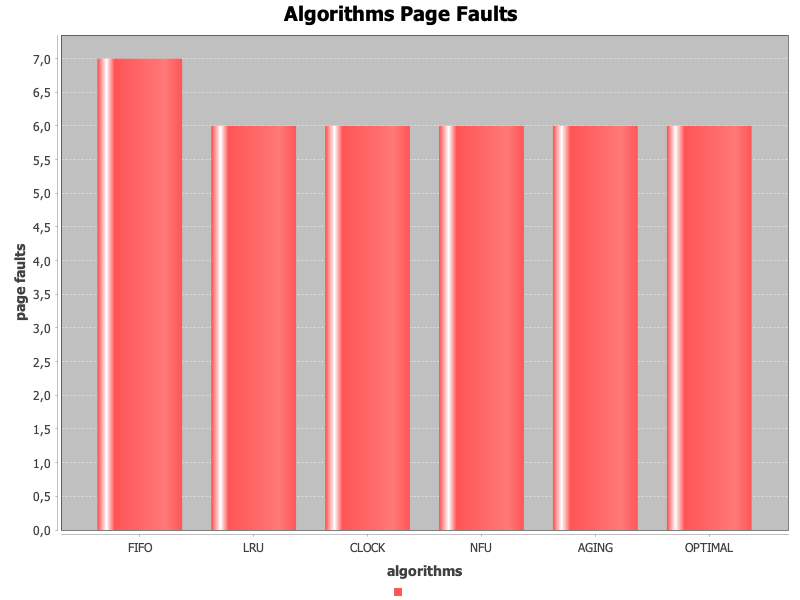
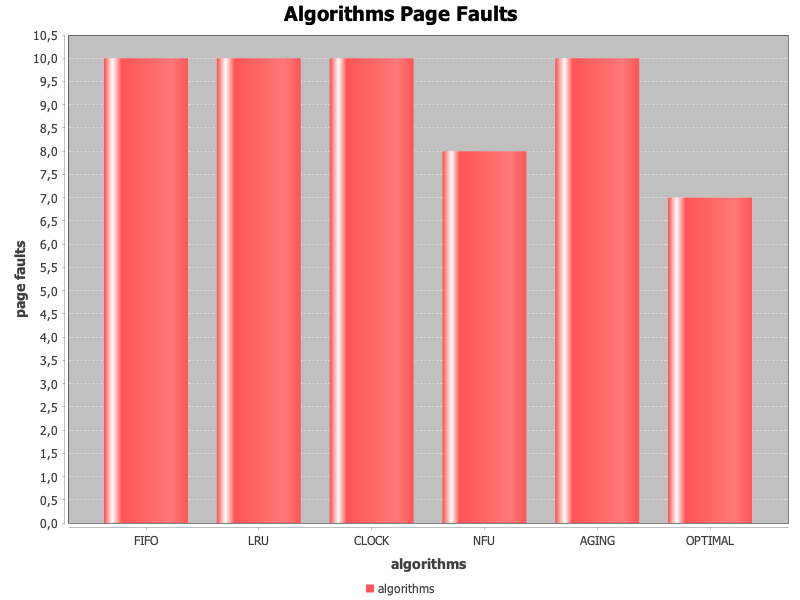
finish project

Changed region(s): [[0.0, 0.06, 1.0, 1.0], [0.8125, 0.21, 0.9688, 0.33]]

diff --git a/src/main/java/org/example/PageReplacement.java b/src/main/java/org/example/PageReplacement.java
@@ -3,7 +3,7 @@ package org.example;
 import java.util.*;
 
 public class PageReplacement {
-    private final int page_size;
+    private final int frame_count;
     private int page_faults;
 
     // FIFO
@@ -24,17 +24,17 @@ public class PageReplacement {
     private final Map<Integer, Integer> agingCounters;
 
 
-    public PageReplacement(int page_size) {
-        this.page_size = page_size;
+    public PageReplacement(int frame_count) {
+        this.frame_count = frame_count;
 
         // FIFO
         this.fifo_frames = new LinkedList<>();
 
         // LRU
-        this.lru_frames = new LinkedHashMap<>(page_size, 0.75f, true);
+        this.lru_frames = new LinkedHashMap<>(frame_count, 0.75f, true);
 
         // CLOCK
-        this.clock_frames = new ArrayList<>(Collections.nCopies(page_size, -1));
+        this.clock_frames = new ArrayList<>(Collections.nCopies(frame_count, -1));
         this.reference_bits = new HashMap<>();
         this.clock_pointer = 0;
 
@@ -53,7 +53,7 @@ public class PageReplacement {
         for (int page : pages) {
             if (!fifo_frames.contains(page)) {
                 page_faults++;
-                if (fifo_frames.size() == page_size) {
+                if (fifo_frames.size() == frame_count) {
                     fifo_frames.poll();
                 }
                 fifo_frames.add(page);
@@ -70,7 +70,7 @@ public class PageReplacement {
         for (int page : pages) {
             if (!lru_frames.containsKey(page)) {
                 page_faults++;
-                if (lru_frames.size() == page_size) {
+                if (lru_frames.size() == frame_count) {
                     int lruPage = lru_frames.keySet().iterator().next();
                     lru_frames.remove(lruPage);
                 }
@@ -94,12 +94,12 @@ public class PageReplacement {
 
                         clock_frames.set(clock_pointer, page);
                         reference_bits.put(page, true);
-                        clock_pointer = (clock_pointer + 1) % page_size; // Move clock pointer
+                        clock_pointer = (clock_pointer + 1) % frame_count; // Move clock pointer
                         break;
                     } else {
                         // If the page has a reference bit of 1, clear it and move the pointer
                         reference_bits.put(currentPage, false);
-                        clock_pointer = (clock_pointer + 1) % page_size;
+                        clock_pointer = (clock_pointer + 1) % frame_count;
                     }
                 }
             } else {
@@ -113,7 +113,7 @@ public class PageReplacement {
 
     public int simulateOptimal(int[] pages) {
         this.reset();
-        List<Integer> optimal_frames = new ArrayList<>(Collections.nCopies(page_size, -1));
+        List<Integer> optimal_frames = new ArrayList<>(Collections.nCopies(frame_count, -1));
 
         for (int i = 0; i < pages.length; i++) {
             int page = pages[i];
@@ -158,7 +158,7 @@ public class PageReplacement {
 
     public int simulateNFU(int[] pages) {
         this.reset();
-        List<Integer> nfuFrames = new ArrayList<>(Collections.nCopies(page_size, -1));
+        List<Integer> nfuFrames = new ArrayList<>(Collections.nCopies(frame_count, -1));
 
         for (int page : pages) {
             nfu_frequency.put(page, nfu_frequency.getOrDefault(page, 0) + 1);
@@ -188,7 +188,7 @@ public class PageReplacement {
 
     public int simulateAging(int[] pages) {
         this.reset();
-        List<Integer> agingFrames = new ArrayList<>(Collections.nCopies(page_size, -1));
+        List<Integer> agingFrames = new ArrayList<>(Collections.nCopies(frame_count, -1));
 
         for (int page : pages) {
             // Update counters by shifting them to the right
@@ -229,7 +229,7 @@ public class PageReplacement {
 
         lru_frames.clear();
 
-        clock_frames = new ArrayList<>(Collections.nCopies(page_size, -1));
+        clock_frames = new ArrayList<>(Collections.nCopies(frame_count, -1));
         clock_pointer = 0;
         reference_bits.clear();
 

diff --git a/src/main/java/org/example/Main.java b/src/main/java/org/example/Main.java
@@ -9,10 +9,10 @@ import java.io.File;
 
 public class Main {
     public static void main(String[] args) {
-        int page_size = 3;
-        int[] pages = {7, 0, 1, 2, 0, 3, 0, 4};
+        int frame_count = 3;
+        int[] pages = {1, 2, 3, 4, 2, 1, 5, 3, 2, 4, 6};
 
-        PageReplacement simulator = new PageReplacement(page_size);
+        PageReplacement simulator = new PageReplacement(frame_count);
 
         System.out.println("FIFO Simulation:");
         int fifo_fault = simulator.simulateFIFO(pages);
